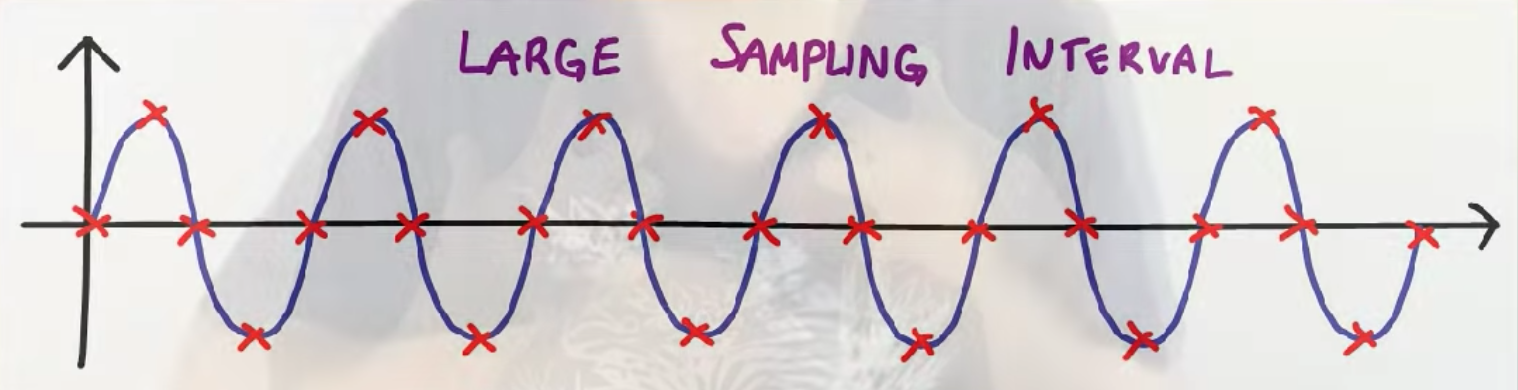
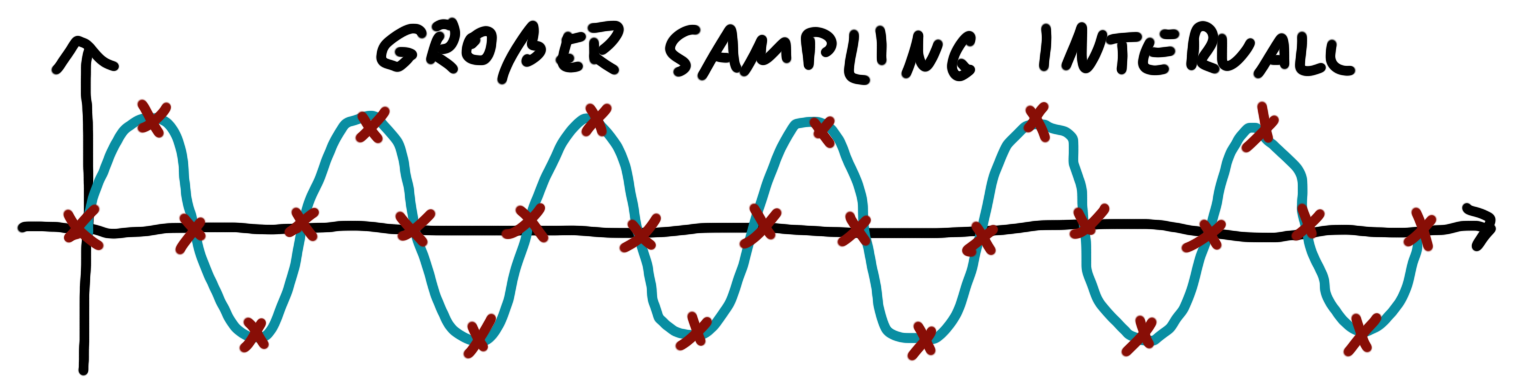
images aliasing

diff --git a/ue1.html b/ue1.html
@@ -153,6 +153,21 @@
 			<h2>Übung 1, Aufgabe 2: Aliasing</h2>
 			<br>
 
+			<p>Wir haben für die 2. Aufgabe 2 WAV-Dateien bekommen mit denen wir im Folgenden arbeiten:</p>
+
+			<p>sine_hi02.wav</p>
+			<audio controls>
+				<source src="./audio/sine_hi02.wav" type="audio/wav">
+			</audio>
+
+			<p>sine_lo02.wav</p>
+			<audio controls>
+				<source src="./audio/sine_lo02.wav" type="audio/wav">
+			</audio>
+
+			<br>
+			<br>
+
 			<h3>Aufgabe 2a) wave_io modifizieren</h3>
 
 			<p>Mit folgendem Code schreiben wir die WAV-Dateien in lesbare ASCII-Dateien:</p>
@@ -249,7 +264,22 @@ writer.close();</code>
 		<article>
 			<h3>Aufgabe 2c) Abtasttheorem</h3>
 
-			<p>Man muss oft genug abtasten um keine essentiellen Daten zu verlieren.</p>
+			<p>Wenn analoge Audio Signale aufgenommen, gespeichert und verarbeitet werden arbeitet man mit einer
+				Abtastrate. Diese nimmt in bestimmten Abständen die Werte einer Frequenz auf. Bei dieser Abtastrate gibt
+				es allerdings ein paar Dinge, die man beachten muss um keine essentiellen Daten zu verlieren. Dazu im
+				Folgenden eine visualisierte Erklärung im Detail:</p>
+
+			<img src="./pics/sampling_small.png" alt="kleine Abtastrate">
+
+
+			<img src="./pics/sampling_large.png" alt="große Abtastrate">
+
+
+			<img src="./pics/aliasing1.png" alt="Audio rekostruieren">
+
+
+			<img src="./pics/aliasing2.png" alt="Erklärung Aliasing">
+
 
 			<img src="./pics/abtastung.png" alt="Unterschiedliche Abtastfrequenzen und ihre Auswirkungen.">
 
